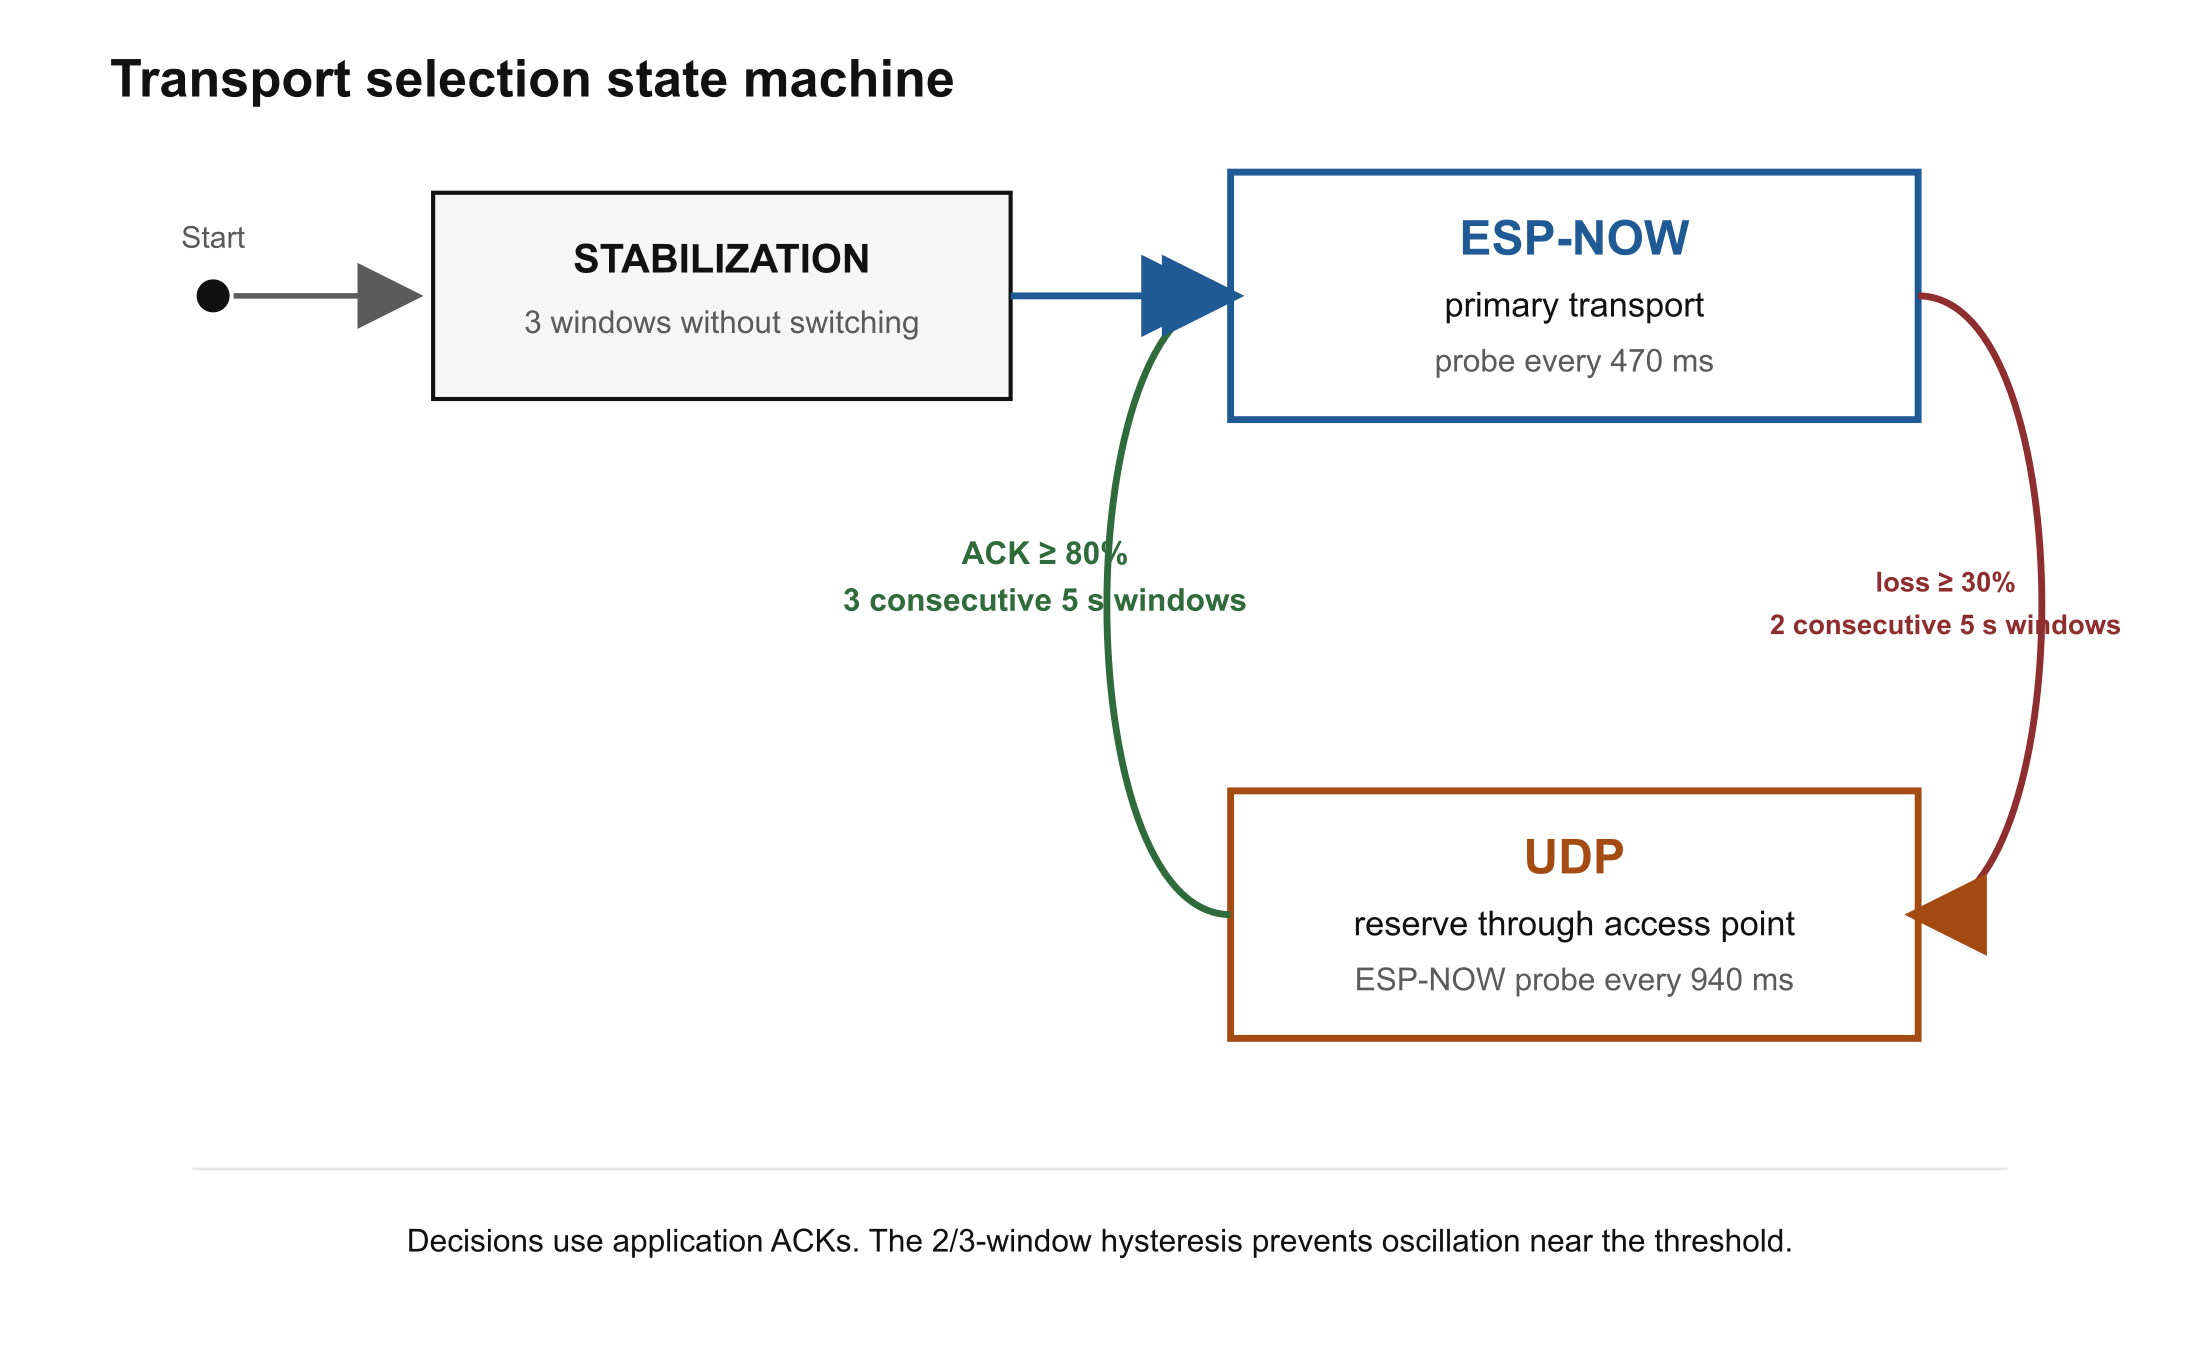
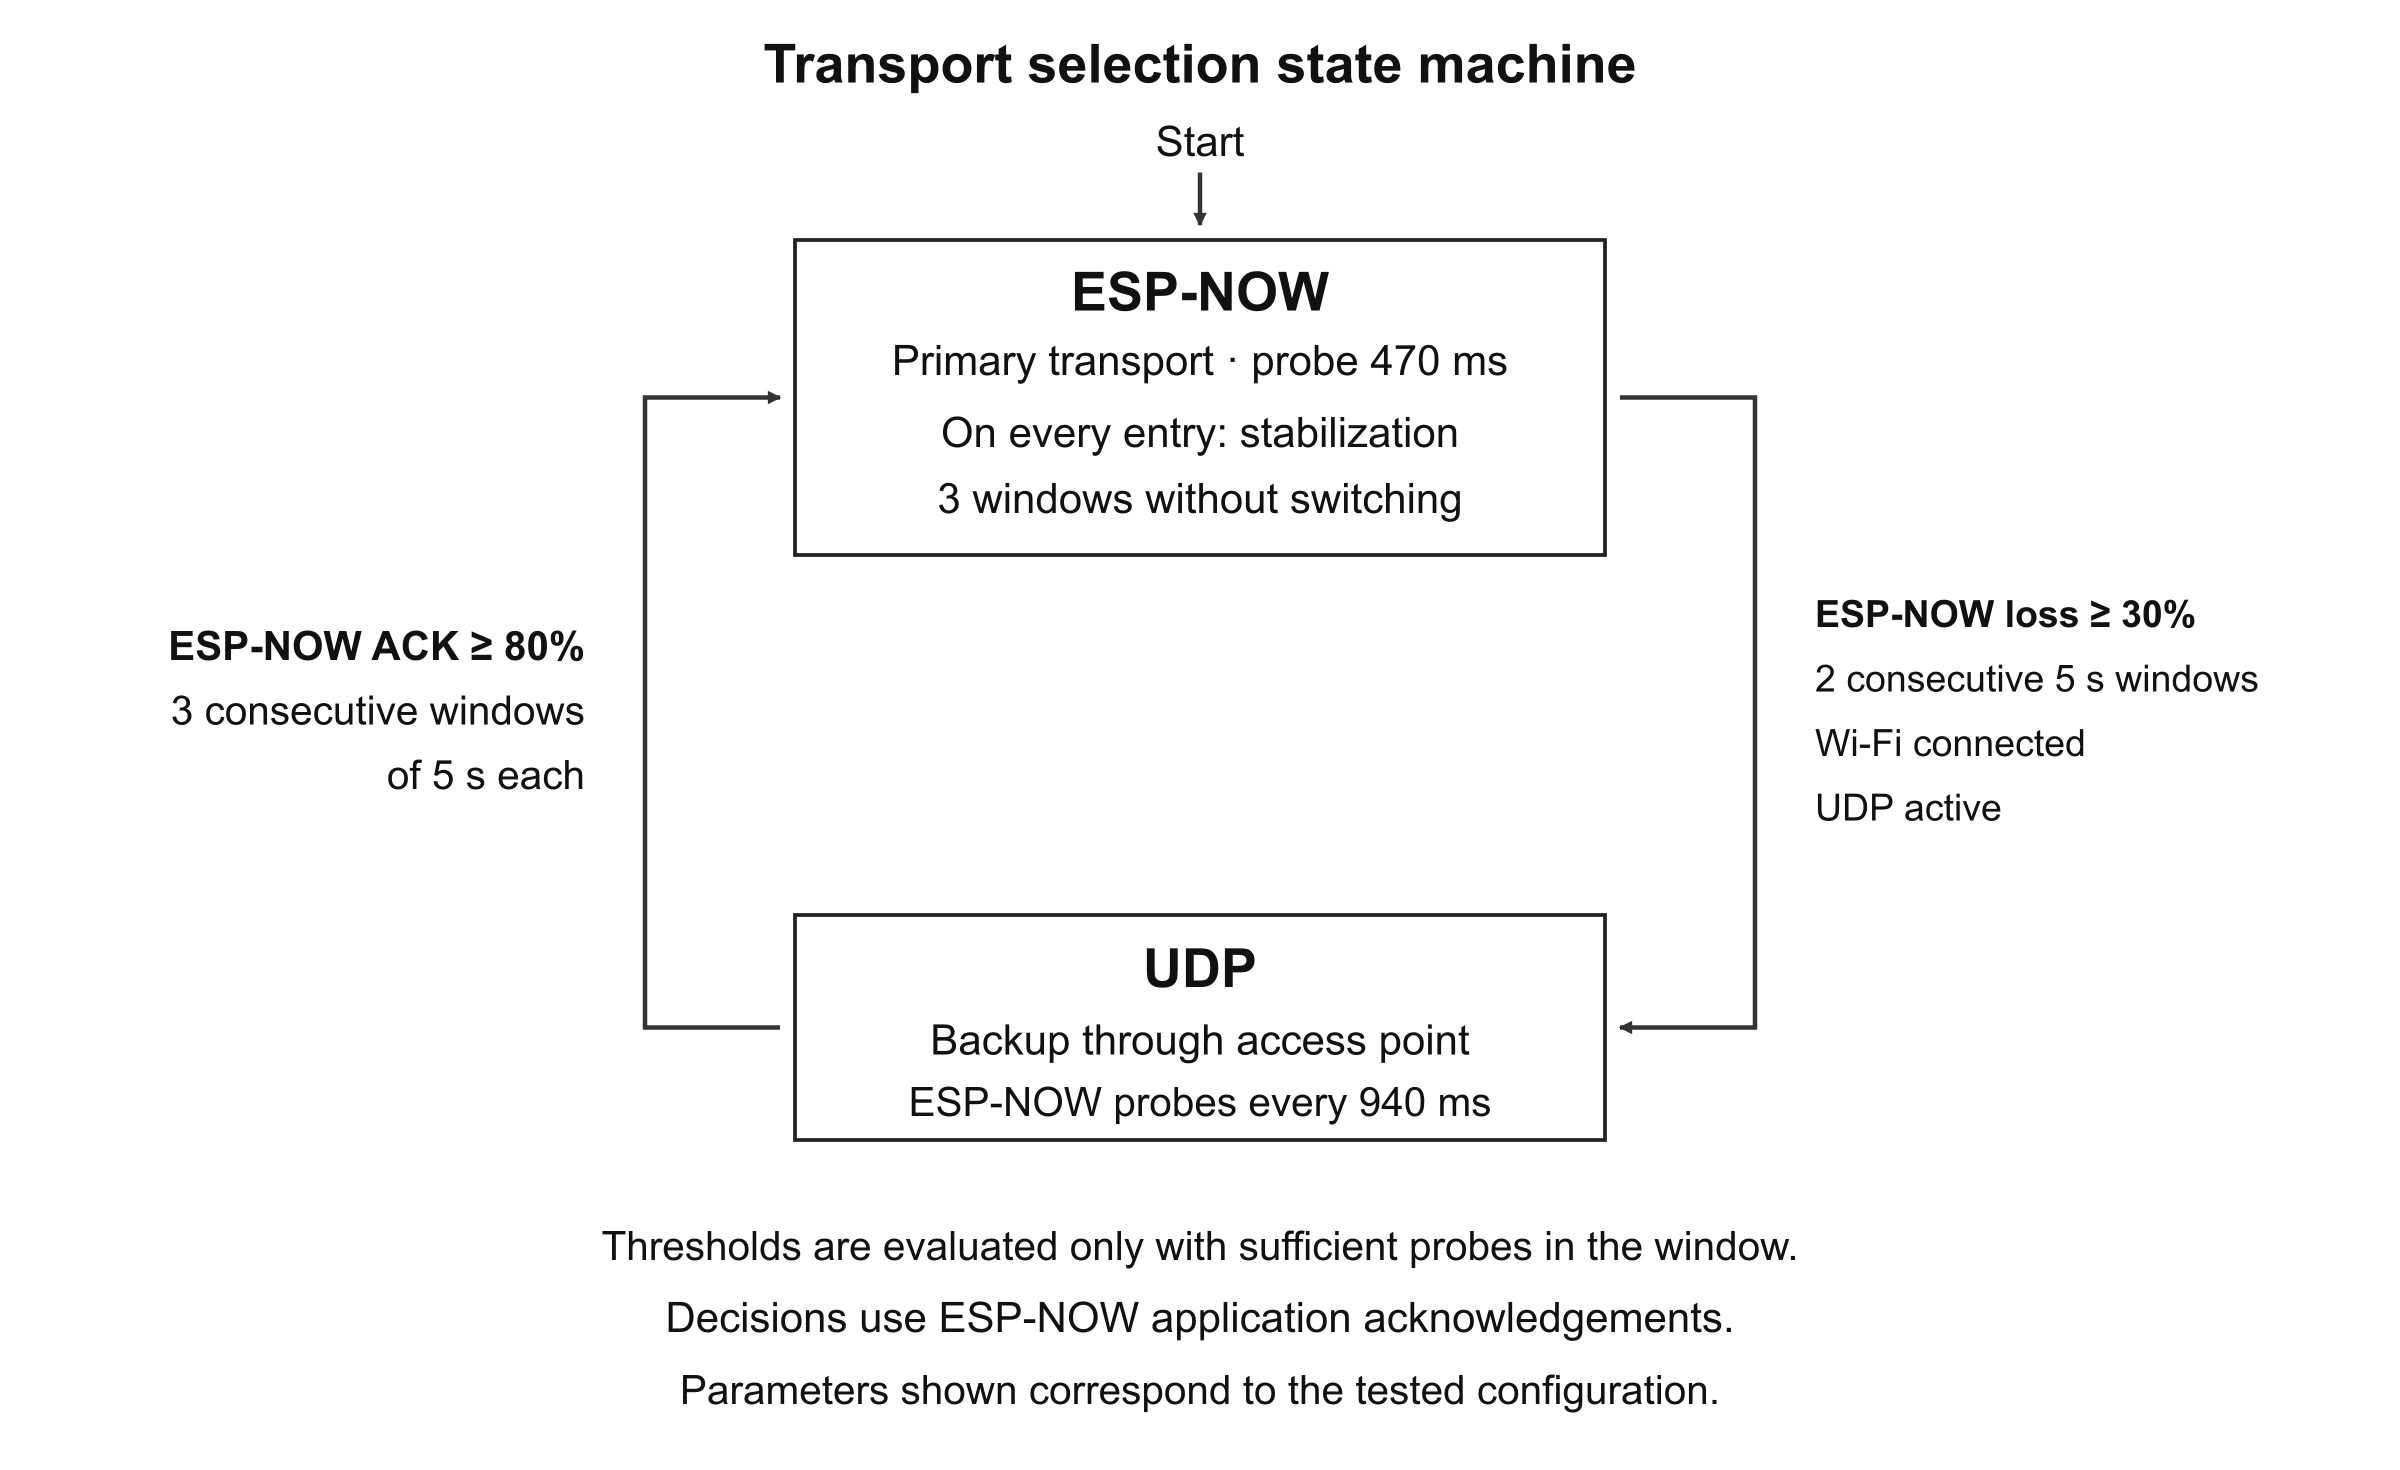
Redraw testbed and transport schematics with separated labels

diff --git a/article/tools/replace_schematics.py b/article/tools/replace_schematics.py
@@ -1,0 +1,36 @@
+"""Replace only two embedded PNGs; preserve all text, styles and image extents."""
+import argparse
+from pathlib import Path
+from zipfile import ZipFile
+from lxml import etree
+import posixpath
+
+parser = argparse.ArgumentParser()
+parser.add_argument('source', type=Path)
+parser.add_argument('output', type=Path)
+parser.add_argument('--lang', choices=['ru', 'en'], required=True)
+args = parser.parse_args()
+assets = Path(__file__).resolve().parents[1] / 'assets'
+ns = {'wp': 'http://schemas.openxmlformats.org/drawingml/2006/wordprocessingDrawing',
+      'a': 'http://schemas.openxmlformats.org/drawingml/2006/main',
+      'r': 'http://schemas.openxmlformats.org/officeDocument/2006/relationships'}
+with ZipFile(args.source) as src:
+    root = etree.fromstring(src.read('word/document.xml'))
+    rels = {e.get('Id'): posixpath.normpath('word/' + e.get('Target'))
+            for e in etree.fromstring(src.read('word/_rels/document.xml.rels'))}
+    replacements = {}
+    for inline in root.findall('.//wp:inline', ns):
+        props = inline.find('wp:docPr', ns)
+        name = props.get('title', '')
+        if name in [f'architecture_{args.lang}.png', f'state_machine_{args.lang}.png']:
+            rid = inline.find('.//a:blip', ns).get('{'+ns['r']+'}embed')
+            replacements[rels[rid]] = (assets / name).read_bytes()
+    if len(replacements) != 2:
+        raise RuntimeError(f'Expected two drawings; found {list(replacements)}')
+    with ZipFile(args.output, 'w') as out:
+        for entry in src.infolist():
+            out.writestr(entry, replacements.get(entry.filename, src.read(entry.filename)))
+with ZipFile(args.source) as src, ZipFile(args.output) as out:
+    changed = [n for n in src.namelist() if src.read(n) != out.read(n)]
+    assert set(changed) == set(replacements), changed
+print(f'{args.output}: changed only {changed}')

diff --git a/README.md b/README.md
@@ -12,6 +12,12 @@
 
 В каждом цикле активна одна аппаратная пара. ESP-NOW передаёт `probe` и прикладной `ACK` напрямую. Резервный UDP проходит через точку доступа. Компьютер управляет обеими платами по USB Serial и объединяет телеметрию в журнал JSON Lines. Третий узел в этот цикл не участвует.
 
+## Автомат выбора транспорта
+
+![Автомат выбора транспорта](docs/assets/state_machine_ru.svg)
+
+При каждом входе в ESP-NOW предусмотрены три окна стабилизации. Переход на UDP требует двух плохих окон, подключения Wi-Fi и активного UDP. Возврат по восстановлению ESP-NOW требует трёх хороших окон. На схеме показаны параметры исследованной конфигурации; при потере Wi-Fi прошивка отдельно возвращается к ESP-NOW.
+
 ## Результаты
 
 ![Результаты 15 управляемых циклов](docs/assets/results_ru.svg)

diff --git a/README_EN.md b/README_EN.md
@@ -12,6 +12,12 @@ The primary transport sends short packets directly over ESP-NOW. When applicatio
 
 One hardware pair is active in each cycle. ESP-NOW carries `probe` packets and application-level acknowledgements directly between the nodes. Backup UDP traffic passes through the access point. The control computer manages both boards over USB Serial and records their telemetry in a JSON Lines log. The third node does not participate in that cycle.
 
+## Transport selection
+
+![Transport selection state machine](docs/assets/state_machine_en.svg)
+
+Every entry into ESP-NOW includes three stabilization windows. Fallback requires two degraded windows, connected Wi-Fi and active UDP. Recovery requires three qualifying ESP-NOW windows. The diagram shows the tested configuration; loss of Wi-Fi separately forces a return to ESP-NOW.
+
 ## Results
 
 ![Results of 15 controlled cycles](docs/assets/results_en.svg)
